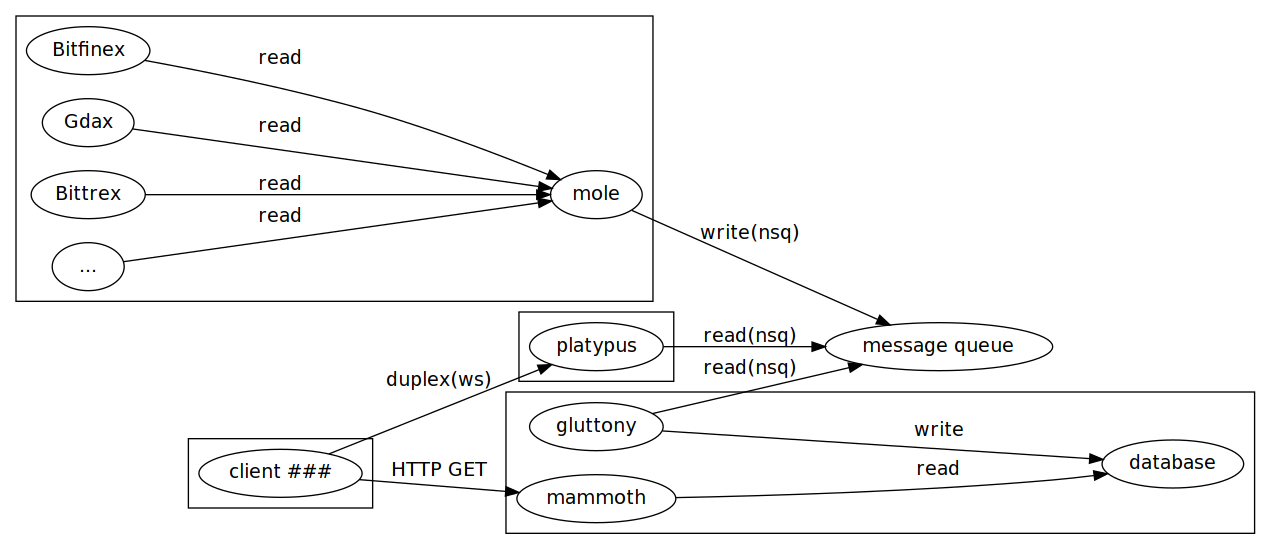
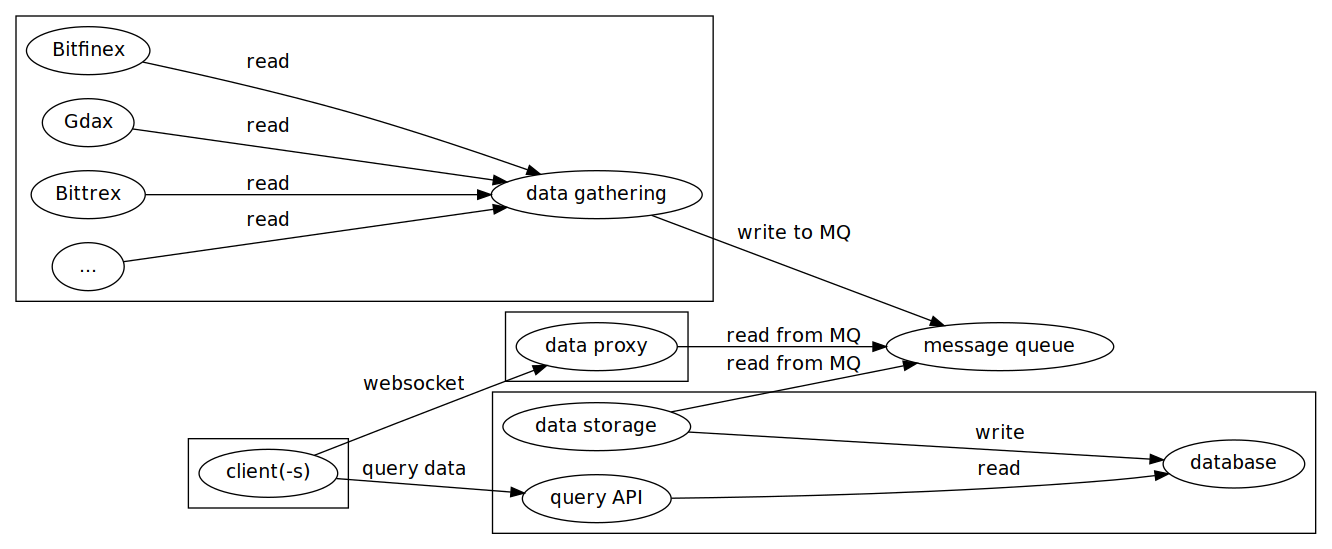
Updating presentation

diff --git a/talks/c34c3.html b/talks/c34c3.html
@@ -26,22 +26,22 @@
 <body>
 <div class="reveal">
 <div class="slides">
-<section id="sec-title-slide"><h1 class="title">Yet another cryptocurrency portfolio application (looking for contributors)</h1><p class="date">Created: 2017-12-29 Fri 17:55</p>
+<section id="sec-title-slide"><h1 class="title">Yet another cryptocurrency portfolio application (looking for contributors)</h1><p class="date">Created: 2017-12-29 Fri 23:55</p>
 </section>
 
 <section>
-<section id="slide-org4add854">
-<h2 id="org4add854">Short introduction</h2>
+<section id="slide-org22fe5c5">
+<h2 id="org22fe5c5">Facts</h2>
+<dl>
+<dt>1300+ cryptocurrencies and growing</dt><dd>source: wikipedia</dd>
+<dt>~100 cryptocurrency exchanges</dt><dd>source: coinmarketcap</dd>
+
+</dl>
 </section>
 </section>
 <section>
-<section id="slide-org4b0b3a0">
-<h2 id="org4b0b3a0">Who we are?</h2>
-</section>
-</section>
-<section>
-<section id="slide-org601dae2">
-<h2 id="org601dae2">What we are working on?</h2>
+<section id="slide-org59f8611">
+<h2 id="org59f8611">What we are working on?</h2>
 <aside class="notes">
 <p>
 How idea of this application emerged
@@ -56,8 +56,8 @@ Desktop application for cryptocurrency price tracking across multiple exchanges.
 </section>
 </section>
 <section>
-<section id="slide-orga63c502">
-<h2 id="orga63c502">What it looks like</h2>
+<section id="slide-org08e9185">
+<h2 id="org08e9185">What it looks like</h2>
 
 <div class="figure">
 <p><img src="./c34c3-app.png" alt="c34c3-app.png" height="500" />
@@ -67,68 +67,48 @@ Desktop application for cryptocurrency price tracking across multiple exchanges.
 </section>
 </section>
 <section>
-<section id="slide-orgfe41314">
-<h2 id="orgfe41314">Features</h2>
+<section id="slide-org4d5b488">
+<h2 id="org4d5b488">Goals</h2>
 <ul>
 <li>unified API across multiple exchanges</li>
-<li>portfolio tracking</li>
-<li>alerts</li>
+<li>easy portfolio tracking</li>
+<li>agile alerts</li>
 
 </ul>
-
 </section>
 </section>
 <section>
-<section id="slide-org6c72355">
-<h2 id="org6c72355">Could be useful for</h2>
+<section id="slide-org8d9e038">
+<h2 id="org8d9e038">What it looks like from technical point of view</h2>
 <ul>
-<li>traders</li>
-<li>investors</li>
-<li>cryptocurrency enthusiasts</li>
+<li>gather data</li>
+<li>normalize it</li>
+<li>store into database</li>
+<li>push to client</li>
 
 </ul>
 
 </section>
 </section>
 <section>
-<section id="slide-orgce80032">
-<h2 id="orgce80032">What it looks like from technical point of view</h2>
-<ul>
-<li>data gathering api</li>
-<li>data processing queue</li>
-<li>client api</li>
-
-</ul>
-
-</section>
-</section>
-<section>
-<section id="slide-orgfdea59a">
-<h2 id="orgfdea59a">Architecture diagram</h2>
+<section id="slide-org2be0218">
+<h2 id="org2be0218">Kinda like this</h2>
 
 <div class="figure">
 <p><img src="c34c3-architecture-diagram.png" alt="c34c3-architecture-diagram.png" />
 </p>
 </div>
 
-
 </section>
 </section>
 <section>
-<section id="slide-org3db5039">
-<h2 id="org3db5039">Demo time!</h2>
-<ul>
-<li>client-side design decisions</li>
-<li>using web technologies for desktop app(electron)</li>
-<li>clojure REPL magic</li>
-
-</ul>
-
+<section id="slide-org135f69c">
+<h2 id="org135f69c">Demo time!</h2>
 </section>
 </section>
 <section>
-<section id="slide-org8f5f5eb">
-<h2 id="org8f5f5eb">We are on very early stage and looking for contributors</h2>
+<section id="slide-orgfa2dd4c">
+<h2 id="orgfa2dd4c">We are on very early stage and looking for contributors</h2>
 <p>
 designers, testers, developers are welcome
 </p>
@@ -140,24 +120,27 @@ designers, testers, developers are welcome
 </section>
 </section>
 <section>
-<section id="slide-orge681760">
-<h2 id="orge681760">Roadmap</h2>
+<section id="slide-orge692eec">
+<h2 id="orge692eec">Roadmap</h2>
 <ul>
 <li>support more exchanges</li>
-<li>support charts in desktop app</li>
-<li>code, algorithms polishing and refactoring</li>
-<li>alpha version</li>
-<li>feedback gathering and then planing further</li>
+<li>improve code quality</li>
+<li>builds for most desktop platforms</li>
+<li>gain more information from markets</li>
 
 </ul>
 
 </section>
 </section>
 <section>
-<section id="slide-org4f81aca">
-<h2 id="org4f81aca">Questions?</h2>
+<section id="slide-org081ea05">
+<h2 id="org081ea05">Thank you</h2>
 <p>
-Our org on GitHub <a href="https://github.com/cryptounicorns">https://github.com/cryptounicorns</a>
+Questions?
+</p>
+
+<p>
+Find us on GitHub <a href="https://github.com/cryptounicorns">https://github.com/cryptounicorns</a>
 </p>
 </section>
 </section>
